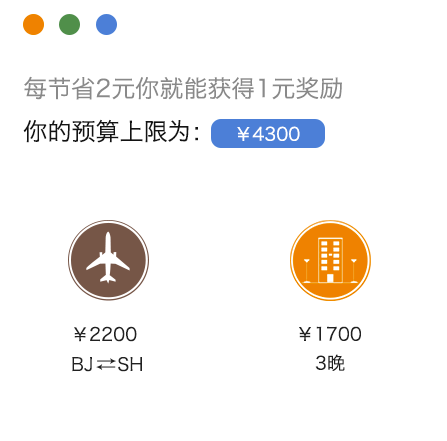
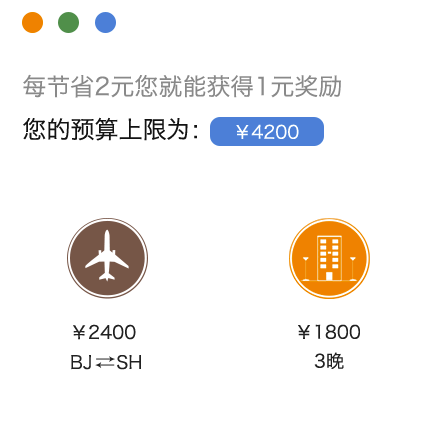
首页 体验页修改。

diff --git a/public/www/experience.html b/public/www/experience.html
@@ -74,7 +74,7 @@
             <div class="function_text t2">
                 <h2>Step2:</h2>
                 <p>
-                    通过全麦商旅的动态算法，Mike得知他本次出差的预算为4300元。同时全麦商旅提醒他，每为企业节约2元就可以分享其中的1元。
+                    通过全麦商旅的动态算法，Mike得知他本次出差的预算为4200元。同时全麦商旅提醒他，每为企业节省2元就可以获得1元奖励。
                 </p>
             </div>
         </div>
@@ -96,7 +96,7 @@
             <div class="function_text t2">
                 <h2>Step4:</h2>
                 <p>
-                    Mike一次出差就成功的为公司节约1750元，而他本人也获得875积分奖励。本次新品发布会圆满成功！
+                    Mike一次出差就成功的为公司节省1450元，而他本人也获得725积分奖励。本次新品发布会圆满成功！
                 </p>
             </div>
         </div>
